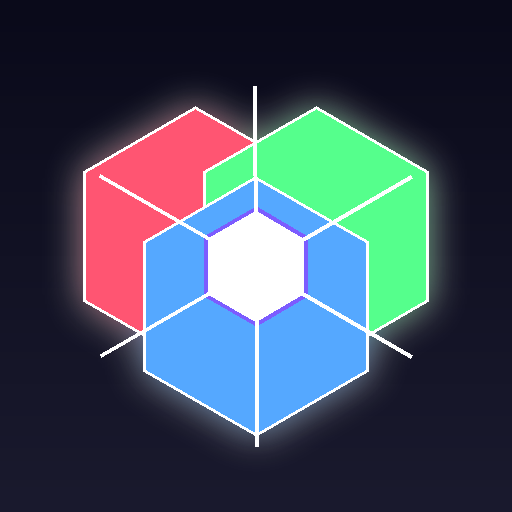
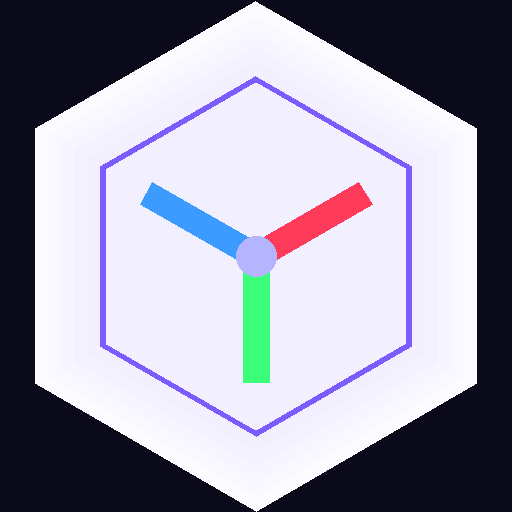
fix(gear-chain): hide gz-topnav during gameplay to prevent pointer event blocking (P0)
The sticky gz-topnav (z-index:9999) renders in normal flow at y~280, directly
over the gear area. Even with canvas top offset, the nav still intercepted
pointerdown events on gears, making the game unplayable.

Fix: startLevel() hides gz-topnav (display:none) + calls resize() to reclaim
full viewport height. showMenu()/showLevelSelect() restore it. resize() now
checks display:none before counting nav/footer height.

diff --git a/prism-path/index.html b/prism-path/index.html
@@ -280,6 +280,7 @@ const TIERS = [
 ];
 
 let curLevel = 0;
+let state = 'splash';       // 'splash', 'levelselect', 'game'
 let curTiles = null;     // current state array (mutable rot)
 let scrambleState = null; // snapshot of init rotations for reset
 let history = [];        // undo stack: array of {idx, prevRot}
@@ -292,6 +293,7 @@ let hoverIdx = -1;
 
 // ============ AUDIO ============
 let audioCtx = null;
+let bgmNodes = [];
 function initAudio(){ if(!audioCtx){ try{ audioCtx = new (window.AudioContext||window.webkitAudioContext)(); }catch(e){} } }
 function playTone(freq, dur, type, vol){
   if(save.muted || !audioCtx) return;
@@ -311,6 +313,57 @@ function sndConnect(){ playTone(660, 0.15, 'sine', 0.12); const t = setTimeout((
 function sndWin(){ [523,659,784,1047].forEach((f,i)=>{ const t = setTimeout(()=>playTone(f,0.25,'triangle',0.15), i*100); timers.push(t); }); }
 function sndError(){ playTone(150, 0.2, 'sawtooth', 0.1); }
 function sndHint(){ playTone(1000, 0.1, 'sine', 0.1); }
+
+// BGM: Ambient pad with chord progression
+function startBGM(){
+  if(!audioCtx || bgmNodes.length || save.muted) return;
+  try{
+    const sr = audioCtx.sampleRate;
+    const dur = 16;
+    const bufSize = sr * dur;
+    const buf = audioCtx.createBuffer(1, bufSize, sr);
+    const d = buf.getChannelData(0);
+    // Chord progression: Cmaj - Dmin - Emin - Dmin (ambient feel)
+    const chords = [[261.63,329.63,392.00],[293.66,369.99,440.00],[329.63,415.30,493.88],[293.66,369.99,440.00]];
+    const chordDur = dur / chords.length;
+    for(let i = 0; i < bufSize; i++){
+      const t = i / sr;
+      const ci = Math.min(Math.floor(t / chordDur), chords.length - 1);
+      const chord = chords[ci];
+      let s = 0;
+      for(let n = 0; n < chord.length; n++){
+        const f = chord[n];
+        s += Math.sin(2 * Math.PI * f * t) * 0.06;
+        s += Math.sin(2 * Math.PI * f * 2 * t) * 0.015;
+        s += Math.sin(2 * Math.PI * f * 0.5 * t) * 0.03;
+      }
+      const fade = t % chordDur;
+      const fadeIn = Math.min(fade / 0.8, 1);
+      const fadeOut = Math.min((chordDur - fade) / 0.8, 1);
+      s *= fadeIn * fadeOut;
+      const lfo = Math.sin(2 * Math.PI * 0.25 * t) * 0.15 + 1;
+      d[i] = s * lfo * 0.5;
+    }
+    const src = audioCtx.createBufferSource();
+    src.buffer = buf;
+    src.loop = true;
+    const filt = audioCtx.createBiquadFilter();
+    filt.type = 'lowpass';
+    filt.frequency.value = 800;
+    filt.Q.value = 1;
+    const g = audioCtx.createGain();
+    g.gain.value = 0.25;
+    src.connect(filt);
+    filt.connect(g);
+    g.connect(audioCtx.destination);
+    src.start();
+    bgmNodes = [src,filt,g];
+  }catch(e){}
+}
+function stopBGM(){
+  bgmNodes.forEach(n => { try{n.stop?.(); n.disconnect?.();}catch(e){} });
+  bgmNodes = [];
+}
 
 // ============ CANVAS / RENDERING ============
 const canvas = document.getElementById('board');
@@ -623,8 +676,10 @@ function loadLevel(n){
   moves = 0;
   won = false;
   animating = null;
+  state = 'game';
   hideAllScreens();
   document.getElementById('hud').style.display='flex';
+  startBGM();
   updateHUD();
   requestAnimationFrame(()=>{ resizeCanvas(); draw(); });
 }
@@ -666,6 +721,8 @@ function hideAllScreens(){
 
 // ============ UI WIRING ============
 function showSplash(){
+  stopBGM();
+  state = 'splash';
   hideAllScreens();
   document.getElementById('hud').style.display='none';
   document.getElementById('splash').classList.remove('hidden');
@@ -675,6 +732,8 @@ function showSplash(){
   }
 }
 function showLevelSelect(){
+  stopBGM();
+  state = 'levelselect';
   hideAllScreens();
   document.getElementById('hud').style.display='none';
   document.getElementById('levelselect').classList.remove('hidden');

diff --git a/gear-chain/index.html b/gear-chain/index.html
@@ -204,12 +204,12 @@ var W,H,DPR;
 function resize(){
   DPR=Math.min(window.devicePixelRatio||1,2);
   W=window.innerWidth;
-  // Account for gz-topnav (sticky, ~35px) and game-footer (fixed, ~44px)
+  // Account for gz-topnav (if visible) and game-footer
   var navH=0,footerH=0;
   var navEl=document.getElementById('gz-topnav');
-  if(navEl&&navEl.offsetHeight>0)navH=navEl.offsetHeight;
+  if(navEl&&navEl.offsetHeight>0&&getComputedStyle(navEl).display!=='none')navH=navEl.offsetHeight;
   var footerEl=document.getElementById('game-footer');
-  if(footerEl&&footerEl.offsetHeight>0)footerH=footerEl.offsetHeight;
+  if(footerEl&&footerEl.offsetHeight>0&&getComputedStyle(footerEl).display!=='none')footerH=footerEl.offsetHeight;
   H=window.innerHeight-navH-footerH;
   canvas.width=W*DPR;
   canvas.height=H*DPR;
@@ -797,6 +797,10 @@ function startLevel(idx){
   document.getElementById('howToPlay').style.display='none';
   document.getElementById('hudTop').style.display='flex';
   document.getElementById('hudInfo').textContent='Level '+(idx+1);
+  // Hide site topnav during gameplay (it overlays canvas, blocking pointer events on gears)
+  var nav=document.getElementById('gz-topnav');
+  if(nav)nav.style.display='none';
+  resize();
   initAudio();
   startBGM();
   // Tutorial for level 1
@@ -869,12 +873,20 @@ function showMenu(){
   document.getElementById('winScreen').style.display='none';
   document.getElementById('howToPlay').style.display='none';
   document.getElementById('hudTop').style.display='none';
+  // Restore site topnav
+  var nav=document.getElementById('gz-topnav');
+  if(nav)nav.style.display='flex';
+  resize();
   stopBGM();
 }
 
 function showLevelSelect(){
   var grid=document.getElementById('levelGrid');
   grid.innerHTML='';
+  // Restore site topnav
+  var nav=document.getElementById('gz-topnav');
+  if(nav)nav.style.display='flex';
+  resize();
   var tiers=[
     {label:'Tier 1 - Basics',start:1,end:5},
     {label:'Tier 2 - Decoys',start:6,end:10},